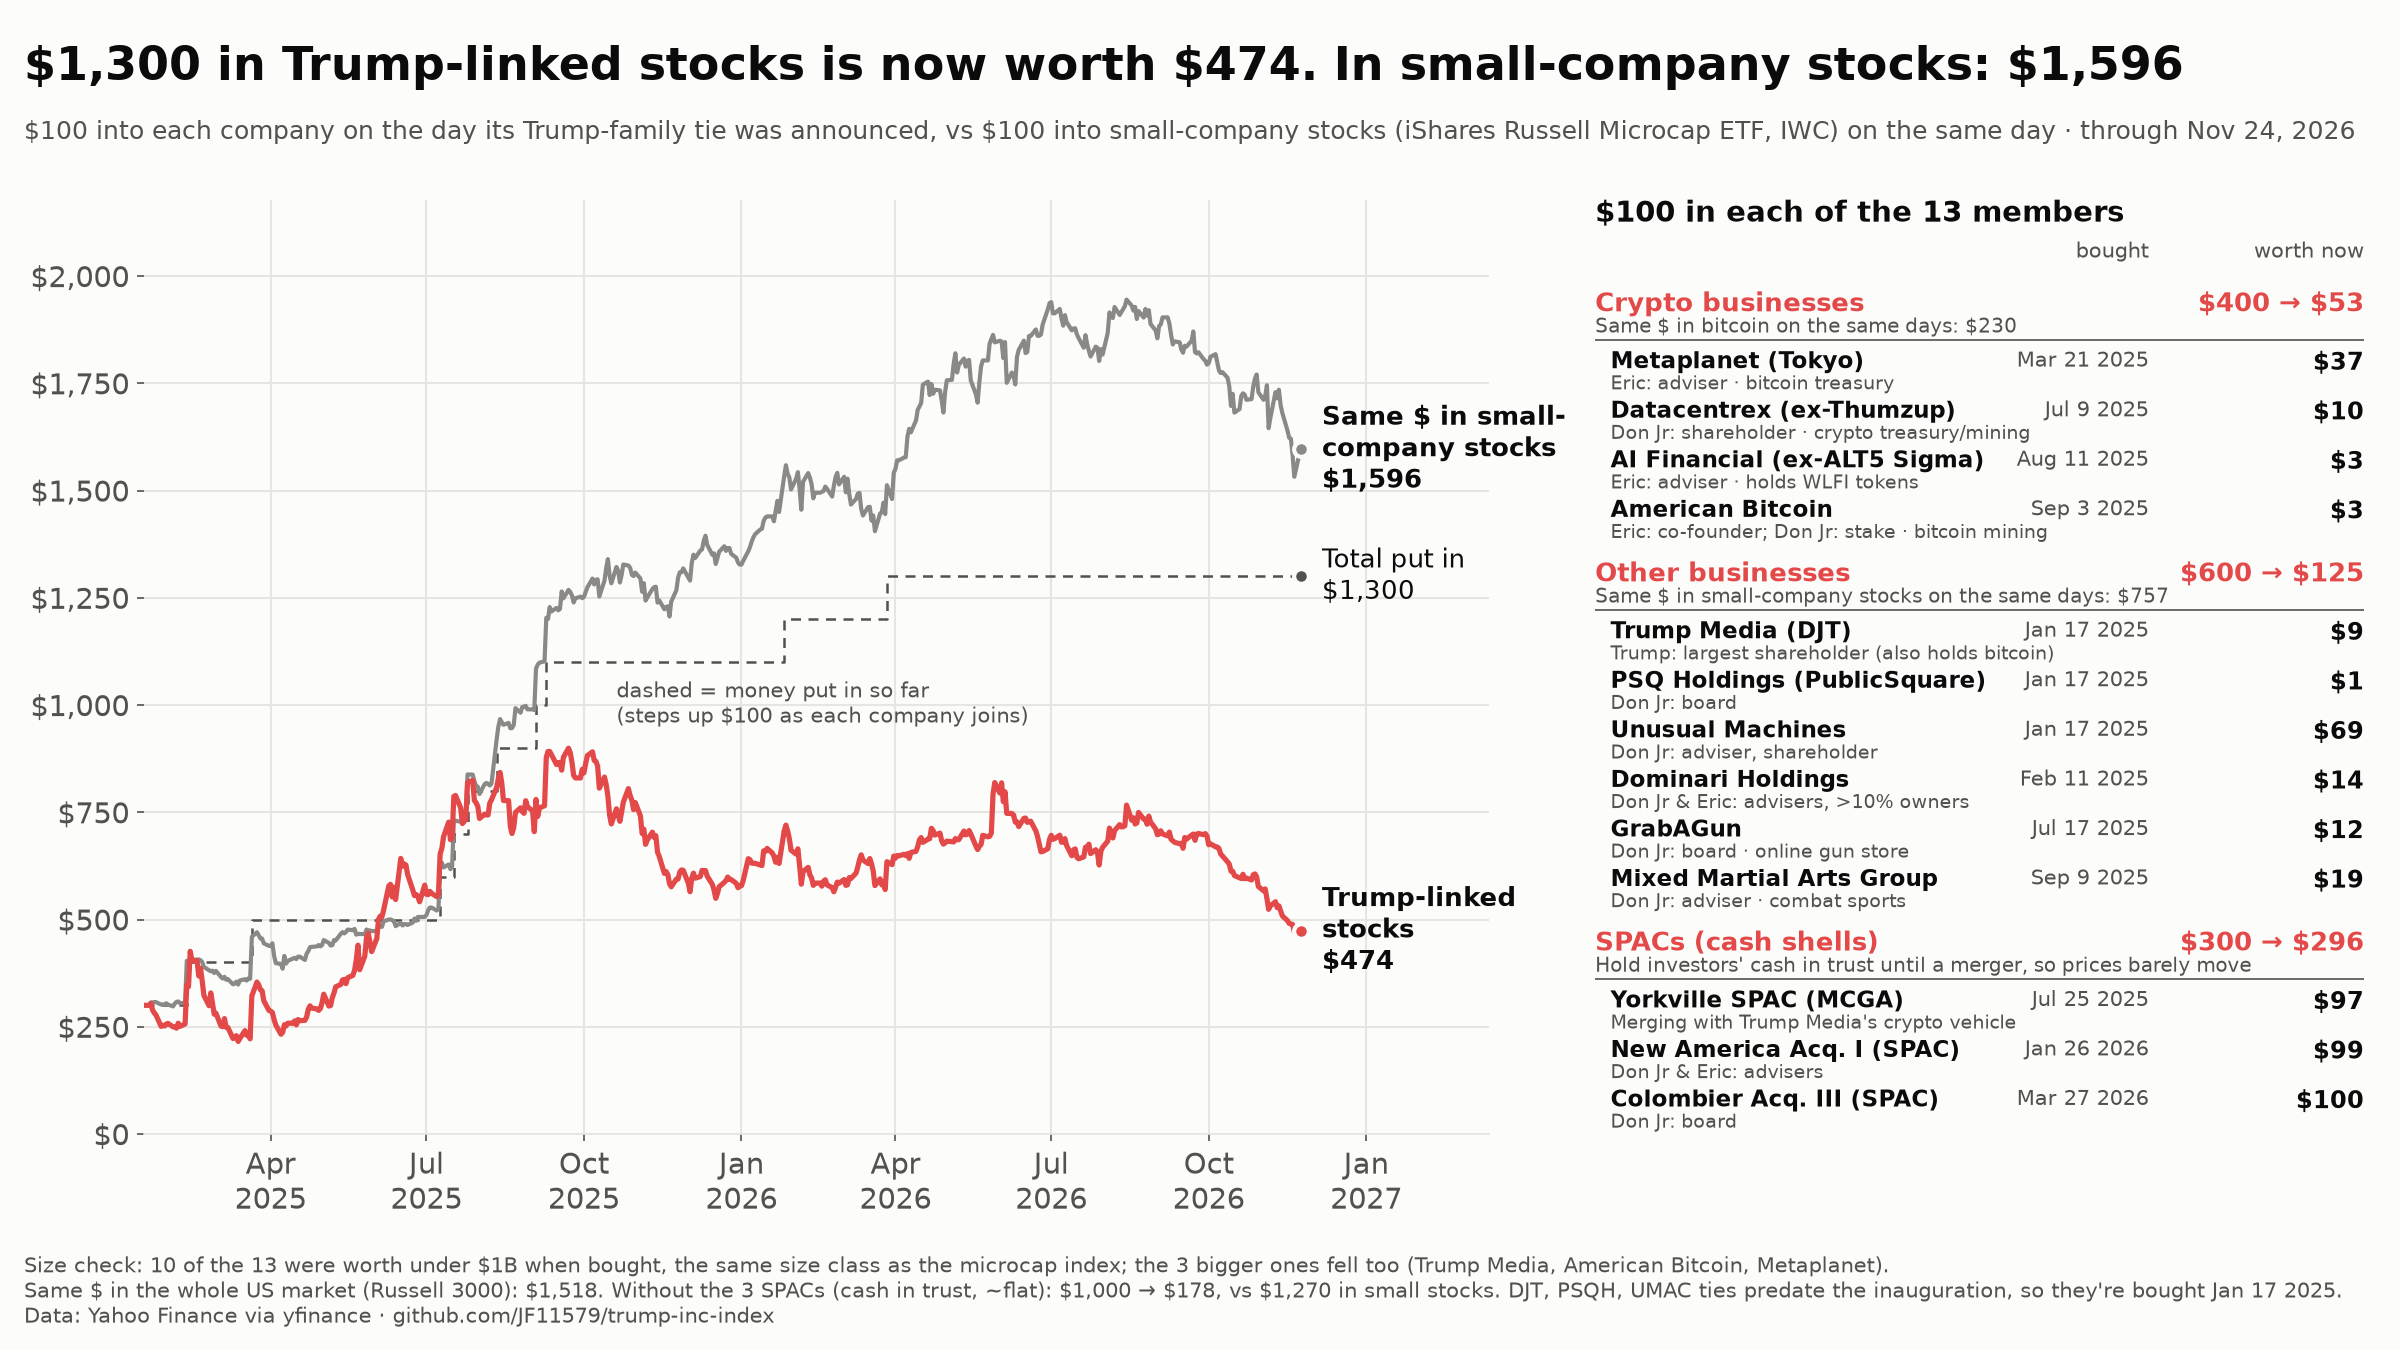
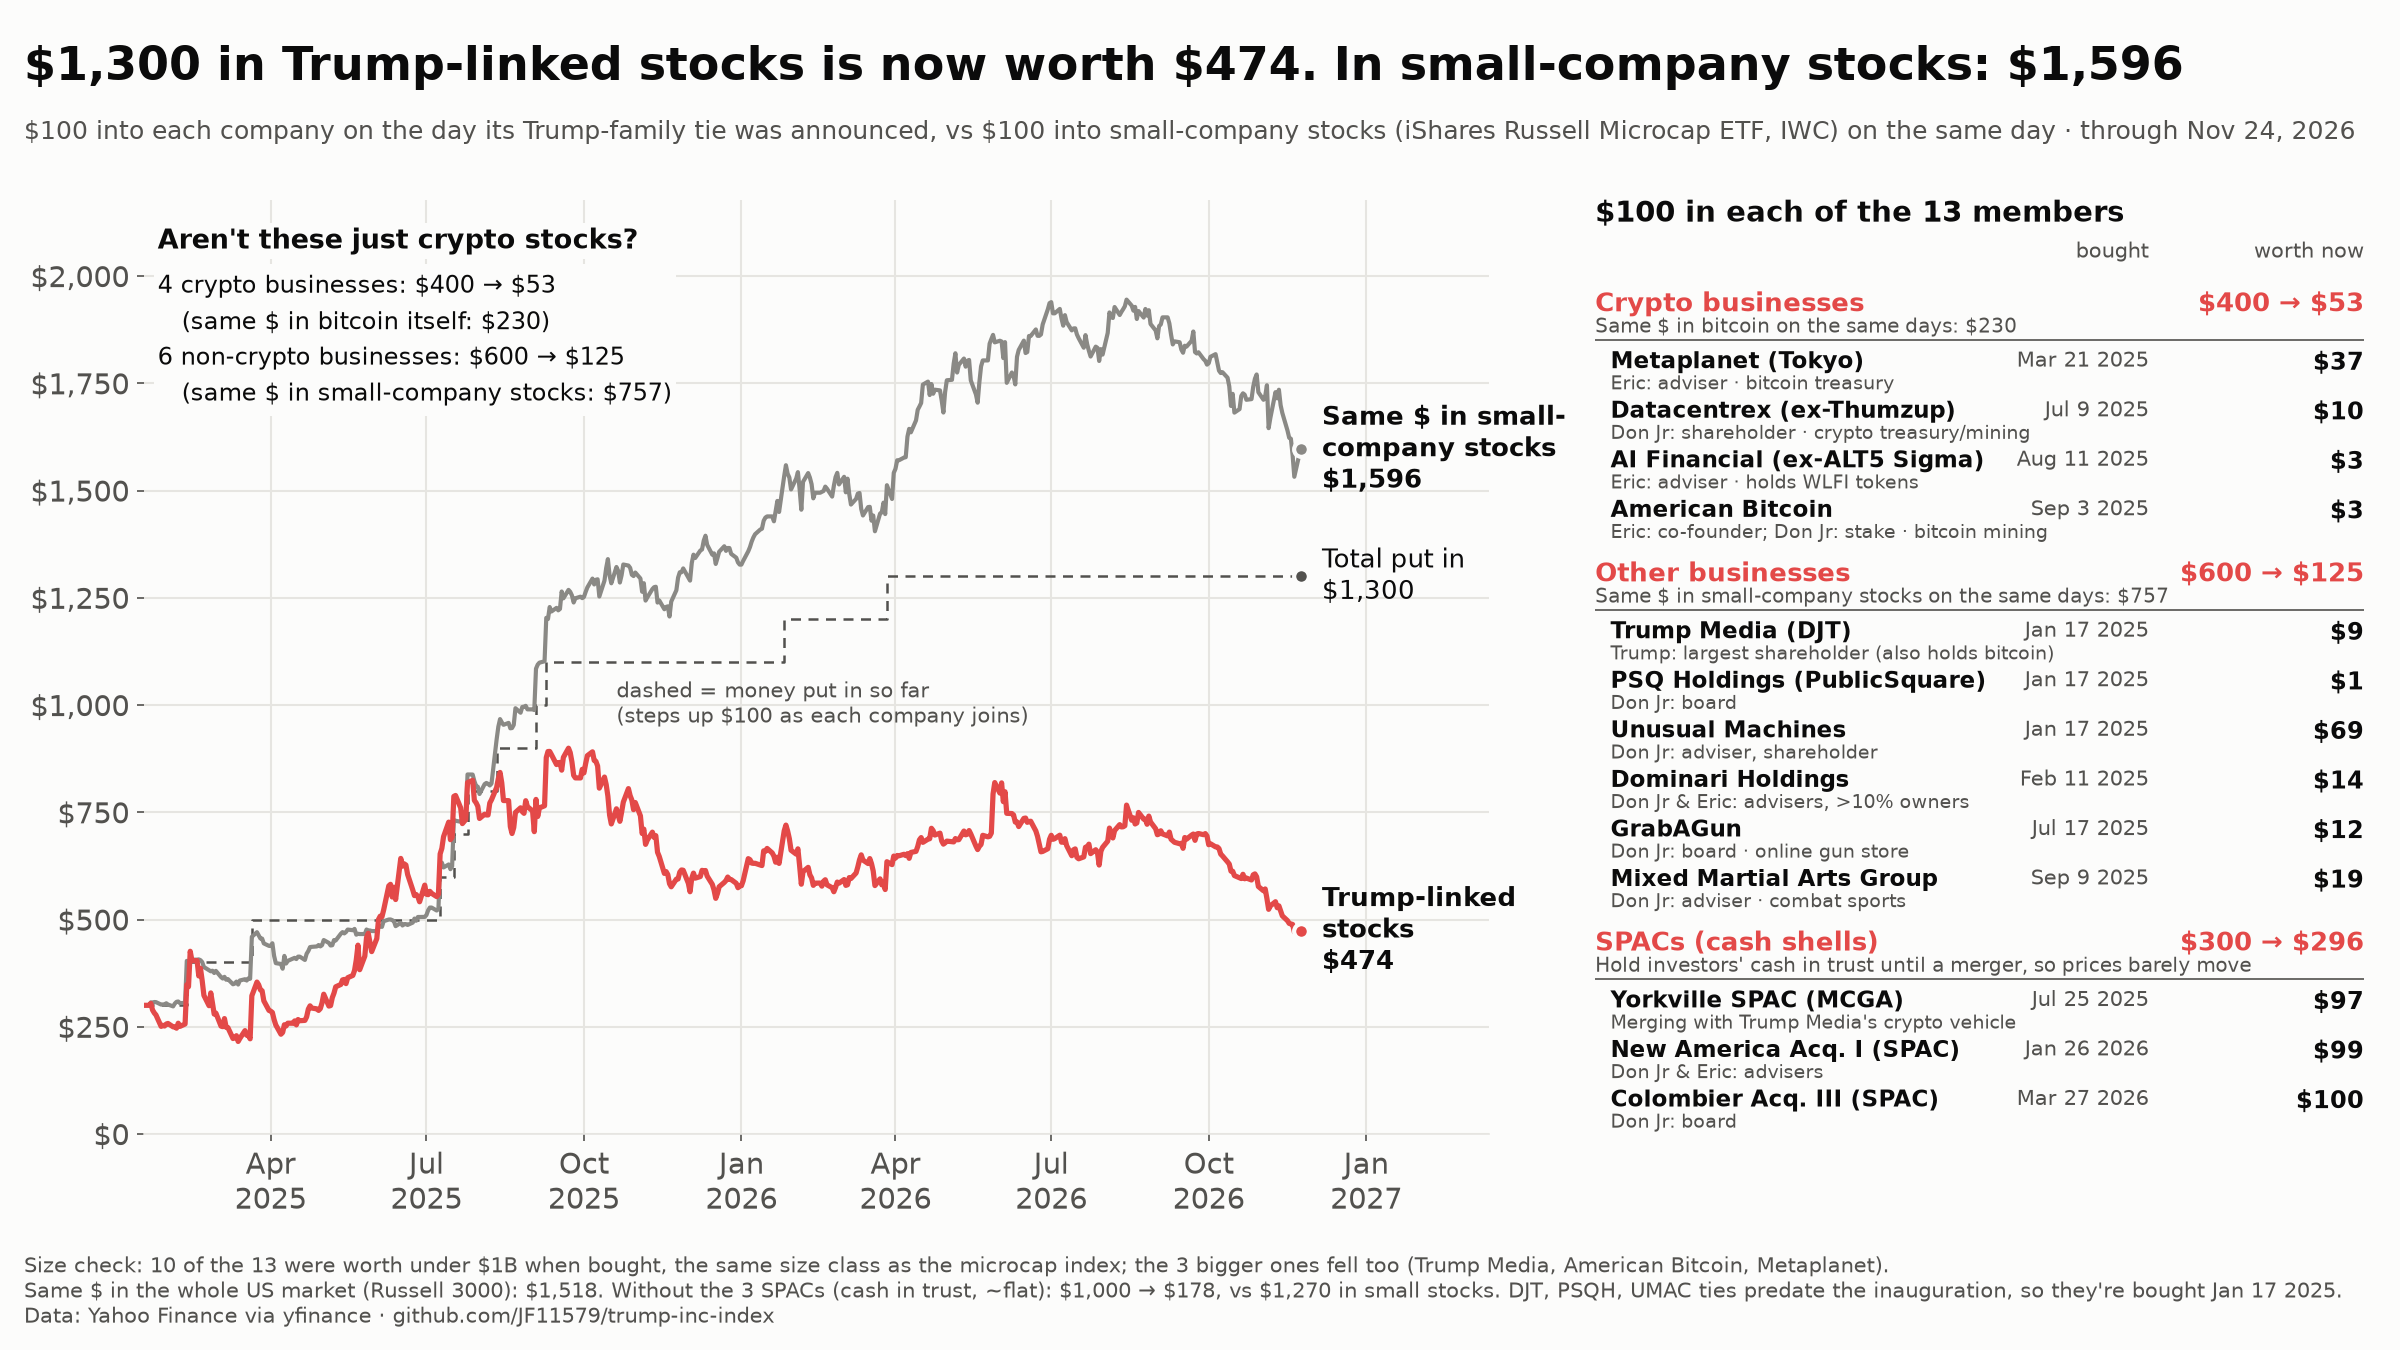
Chart 4: add 'Aren't these just crypto stocks?' callout

Changed region(s): [[0.0625, 0.1556, 0.2812, 0.3111]]

diff --git a/make_term_chart.py b/make_term_chart.py
@@ -87,6 +87,7 @@ tab.text(1.0, 0.955, "worth now", fontsize=10, color=INK2, ha="right", va="top")
 n_units = sum(len(m) for _, m, _, _ in GROUPS) + 1.45 * len(GROUPS)
 step = 0.92 / n_units
 y = 0.915
+gsum = {}
 for gname, members, bench, bname in GROUPS:
     members = sorted(members, key=lambda t: joins[t])
     now = sum(trump_pos[t].iloc[-1] for t in members)
@@ -95,6 +96,7 @@ for gname, members, bench, bname in GROUPS:
     tab.text(1.0, y, f"${STAKE * len(members):,} → ${now:,.0f}", fontsize=12.5, fontweight="bold", va="top", ha="right", color=RED)
     if bench:
         b_now = sum(position(bench, joins[t]).iloc[-1] for t in members)
+        gsum[gname] = (STAKE * len(members), now, b_now)
         tab.text(0, y - 0.028, f"Same $ in {bname} on the same days: ${b_now:,.0f}", fontsize=9.5, va="top", color=INK2)
     else:
         tab.text(0, y - 0.028, "Hold investors' cash in trust until a merger, so prices barely move", fontsize=9.5, va="top", color=INK2)
@@ -107,6 +109,17 @@ for gname, members, bench, bname in GROUPS:
                  fontsize=10, va="top", ha="right", color=INK2)
         tab.text(1.0, y, f"${trump_pos[t].iloc[-1]:,.0f}", fontsize=11.5, va="top", ha="right", fontweight="bold")
         y -= step
+
+# ---- callout: the "aren't these just crypto stocks?" answer -------------------
+(ci, cn, cb), (oi, on, ob) = gsum["Crypto businesses"], gsum["Other businesses"]
+ax.text(p.index[0] + pd.Timedelta(days=8), ax.get_ylim()[1] * 0.97, "Aren't these just crypto stocks?",
+        fontsize=13, fontweight="bold", va="top", color=INK,
+        bbox=dict(facecolor=SURF, edgecolor="none", pad=2))
+ax.text(p.index[0] + pd.Timedelta(days=8), ax.get_ylim()[1] * 0.97 - 95,
+        f"4 crypto businesses: ${ci:,} → ${cn:,.0f}\n   (same $ in bitcoin itself: ${cb:,.0f})\n"
+        f"6 non-crypto businesses: ${oi:,} → ${on:,.0f}\n   (same $ in small-company stocks: ${ob:,.0f})",
+        fontsize=11.5, va="top", color=INK, linespacing=1.5,
+        bbox=dict(facecolor=SURF, edgecolor="none", pad=2))
 
 asof = p.index[-1].strftime("%b %-d, %Y")
 total = STAKE * len(joins)
